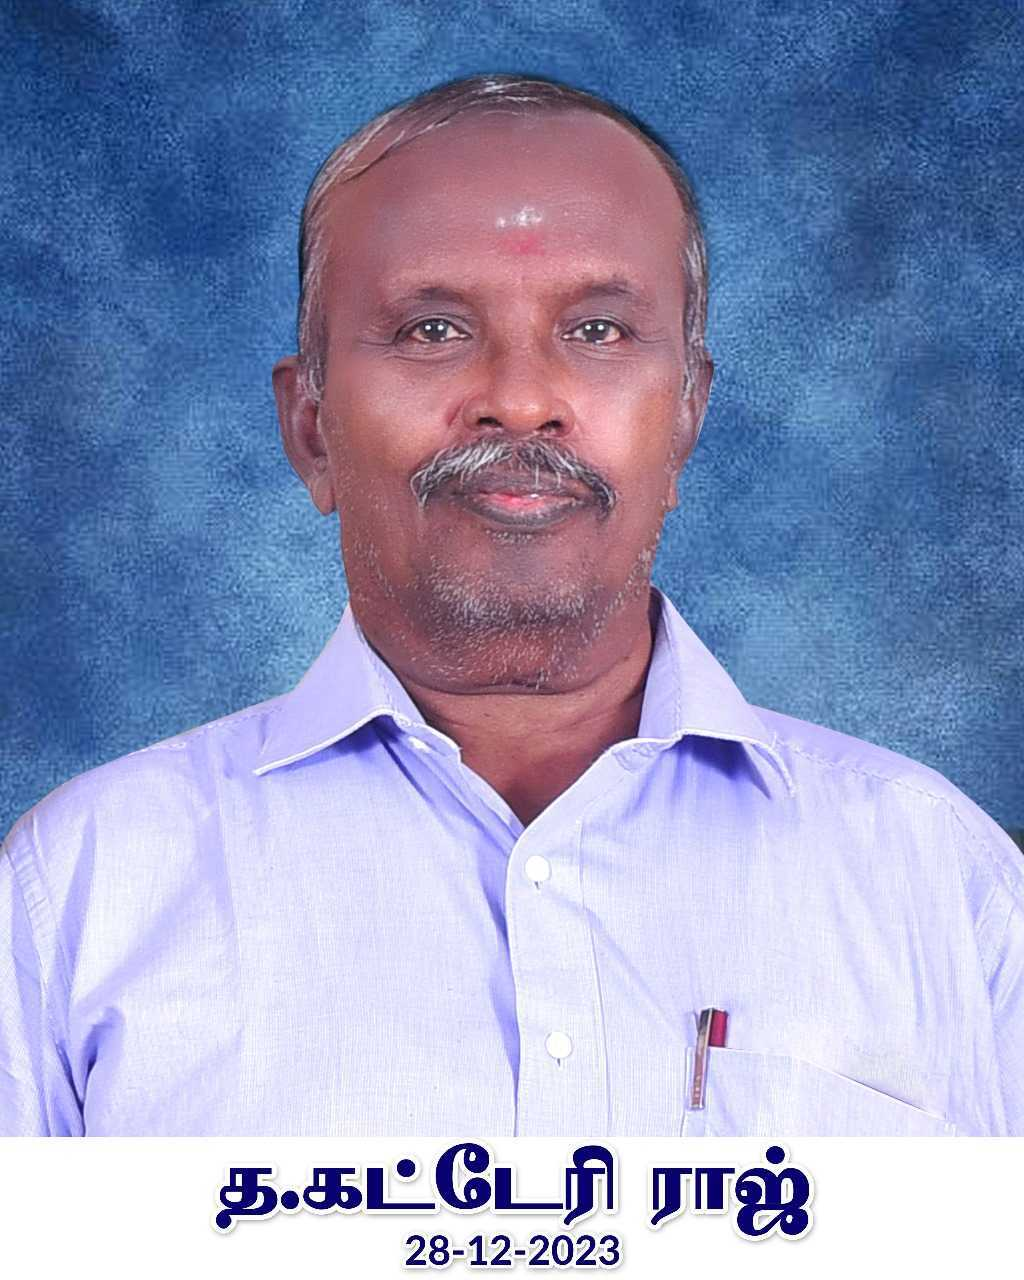
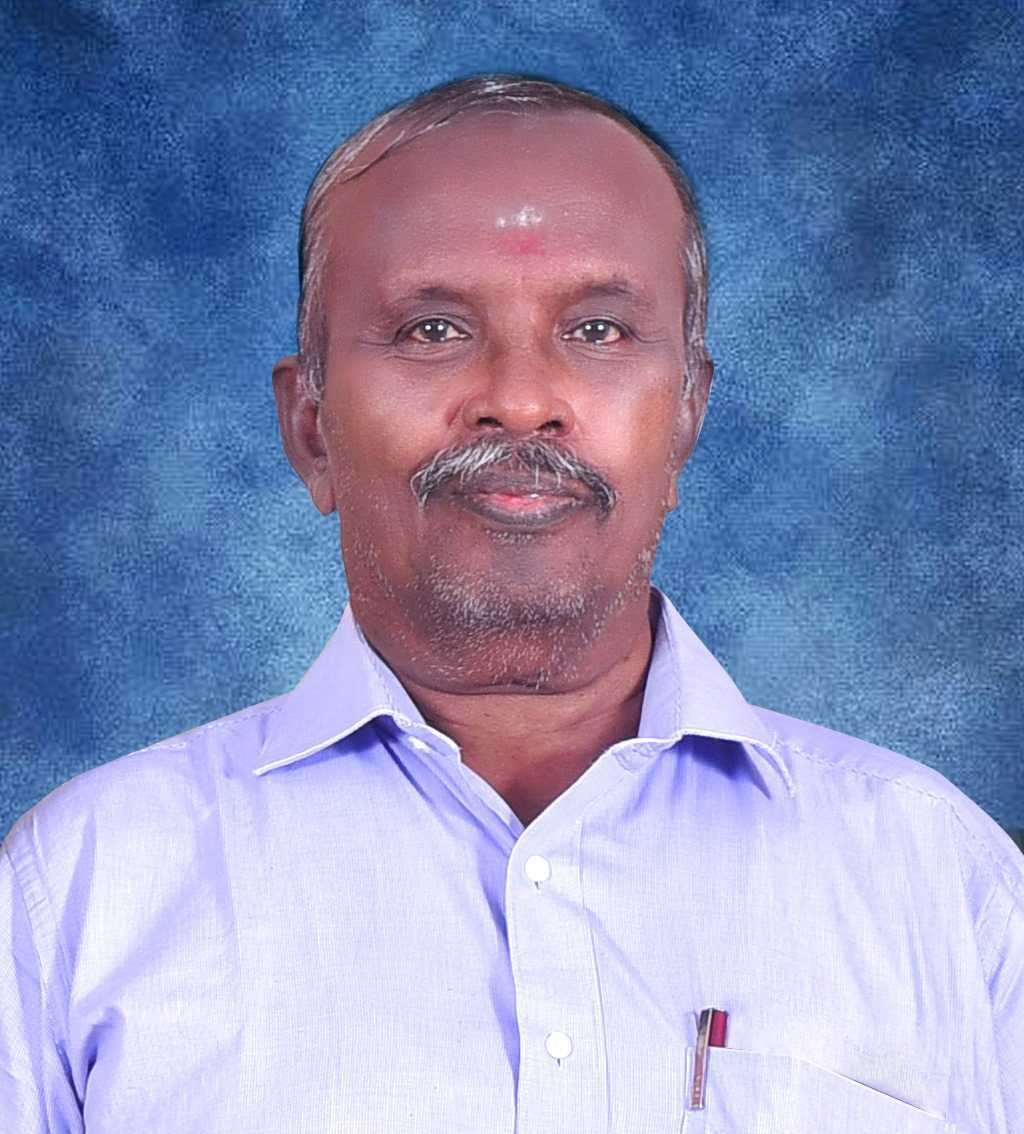
fix: correct spelling of "macaroons" to "macroons" across multiple files

diff --git a/src/app/thoothukudi-macroons/page.tsx b/src/app/thoothukudi-macroons/page.tsx
@@ -13,18 +13,18 @@ import { FAQAccordion } from "@/components/shared/FAQAccordion";
 import { AddToCartButton } from "@/components/product/AddToCartButton";
 
 export const metadata: Metadata = pageMetadata({
-  title: "Thoothukudi Macaroons | Buy Macaroons Online | Ganesh Bakery",
+  title: "Thoothukudi Macroons | Buy Macroons Online | Ganesh Bakery",
   description:
-    "Thoothukudi macaroons (also spelled macroons, from Tuticorin) — baked by Ganesh Bakery, Shop No. 532 since 1964. Order online and have them shipped to you.",
+    "Thoothukudi macroons (from Tuticorin) — baked by Ganesh Bakery, Shop No. 532 since 1964. Order online and have them shipped to you.",
   path: "/thoothukudi-macroons",
 });
 
 const relevantFaq = faqItems.filter((item) =>
   [
-    "What are Thoothukudi macaroons?",
-    "Can I buy macaroons online?",
+    "What are Thoothukudi macroons?",
+    "Can I buy macroons online?",
     "What sizes are available?",
-    "How should macaroons and biscuits be stored?",
+    "How should macroons and biscuits be stored?",
     "What is the shelf life?",
     "Do you deliver bakery products?",
   ].includes(item.question)
@@ -37,11 +37,11 @@ export default async function ThoothukudiMacroonsPage() {
   return (
     <>
       <JsonLd data={faqSchema(relevantFaq)} />
-      <Breadcrumbs items={[{ name: "Thoothukudi Macaroons", path: "/thoothukudi-macroons" }]} />
+      <Breadcrumbs items={[{ name: "Thoothukudi Macroons", path: "/thoothukudi-macroons" }]} />
 
       <div className="mx-auto max-w-4xl px-4 py-10 sm:px-6 lg:px-8">
         <h1 className="font-display text-4xl font-semibold text-[color:var(--text-primary)] sm:text-5xl text-balance">
-          Thoothukudi Macaroons
+          Thoothukudi Macroons
         </h1>
         <p className="mt-4 text-lg text-[color:var(--text-secondary)] text-pretty">
           A bakery specialty of Thoothukudi — also known as Tuticorin — baked by {siteConfig.brandName},{" "}
@@ -50,14 +50,14 @@ export default async function ThoothukudiMacroonsPage() {
 
         {image && (
           <div className="glass-premium relative mt-8 aspect-4/5 max-w-sm overflow-hidden rounded-[var(--radius-card)]">
-            <Image src={image.url} alt={image.alt || "Thoothukudi macaroons from Ganesh Bakery"} fill className="object-cover object-right" />
+            <Image src={image.url} alt={image.alt || "Thoothukudi macroons from Ganesh Bakery"} fill className="object-cover object-right" />
           </div>
         )}
 
         <section className="mt-10">
-          <h2 className="font-display text-2xl font-semibold text-[color:var(--text-primary)]">What Are Thoothukudi Macaroons?</h2>
+          <h2 className="font-display text-2xl font-semibold text-[color:var(--text-primary)]">What Are Thoothukudi Macroons?</h2>
           <p className="mt-3 text-[color:var(--text-secondary)] text-pretty">
-            Thoothukudi macaroons — sometimes spelled &ldquo;macroons&rdquo; locally — are a baked confection
+            Thoothukudi macroons are a baked confection
             associated with Thoothukudi (Tuticorin) on the Tamil Nadu coast. They&apos;re distinct from French
             macarons, and have become closely tied to the city&apos;s identity as a bakery town.
           </p>
@@ -66,7 +66,7 @@ export default async function ThoothukudiMacroonsPage() {
         <section className="mt-10">
           <h2 className="font-display text-2xl font-semibold text-[color:var(--text-primary)]">Why Ours Are Different</h2>
           <p className="mt-3 text-[color:var(--text-secondary)] text-pretty">
-            At {siteConfig.brandName}, {siteConfig.shopBranch}, our macaroons follow the same approach we&apos;ve
+            At {siteConfig.brandName}, {siteConfig.shopBranch}, our macroons follow the same approach we&apos;ve
             baked to since {siteConfig.since} — part of the wider {siteConfig.brandName} family heritage in{" "}
             {siteConfig.locality}.
           </p>
@@ -92,7 +92,7 @@ export default async function ThoothukudiMacroonsPage() {
               </Link>
             </div>
           ) : (
-            <p className="mt-3 text-[color:var(--text-muted)]">[CLIENT TO PROVIDE: current macaroon availability]</p>
+            <p className="mt-3 text-[color:var(--text-muted)]">[CLIENT TO PROVIDE: current macroons availability]</p>
           )}
         </section>
 

diff --git a/src/app/about/page.tsx b/src/app/about/page.tsx
@@ -1,14 +1,14 @@
+import { Breadcrumbs } from "@/components/shared/Breadcrumbs";
+import { pageMetadata } from "@/lib/seo/metadata";
+import { siteConfig } from "@/lib/site-config";
 import type { Metadata } from "next";
 import Image from "next/image";
 import Link from "next/link";
-import { pageMetadata } from "@/lib/seo/metadata";
-import { siteConfig } from "@/lib/site-config";
-import { Breadcrumbs } from "@/components/shared/Breadcrumbs";
 
 export const metadata: Metadata = pageMetadata({
   title: "About Ganesh Bakery | Shop 532, Thoothukudi",
   description:
-    "Ganesh Bakery, Shop No. 532 is part of the Ganesh Bakery family heritage in Thoothukudi (Tuticorin), baking traditional biscuits, rusk and macaroons since 1964.",
+    "Ganesh Bakery, Shop No. 532 is part of the Ganesh Bakery family heritage in Thoothukudi (Tuticorin), baking traditional biscuits, rusk and macroons since 1964.",
   path: "/about",
 });
 
@@ -58,13 +58,13 @@ export default function AboutPage() {
               <div className="glass-subtle glow-gold relative mx-auto aspect-[3/4] w-full overflow-hidden rounded-2xl">
                 <Image
                   src="/brand/founder-dharmalingam-nadar.jpg"
-                  alt={`Sri K. Dharmalingam Nadar — founder of ${siteConfig.brandName}, ${siteConfig.since}`}
+                  alt={`Shri K. Dharmalingam — founder of ${siteConfig.brandName}, ${siteConfig.since}`}
                   fill
                   className="object-cover"
                 />
               </div>
               <figcaption className="mt-2">
-                <p className="text-sm font-medium text-[color:var(--text-primary)]">Sri K. Dharmalingam Nadar</p>
+                <p className="text-sm font-medium text-[color:var(--text-primary)]">Shri K. Dharmalingam Nadar</p>
                 <p className="label-tracked mt-0.5 text-[10px] text-[color:var(--text-muted)]">Founder, {siteConfig.since}</p>
               </figcaption>
             </figure>
@@ -72,21 +72,21 @@ export default function AboutPage() {
               <div className="glass-subtle glow-gold relative mx-auto aspect-[3/4] w-full overflow-hidden rounded-2xl">
                 <Image
                   src="/brand/father-katteri-raj.jpg"
-                  alt={`T. Katteri Raj — carried the ${siteConfig.brandName} tradition forward`}
+                  alt={`Shri T. Katteri Raj — carried the ${siteConfig.brandName} tradition forward`}
                   fill
                   className="object-cover"
                 />
               </div>
               <figcaption className="mt-2">
-                <p className="text-sm font-medium text-[color:var(--text-primary)]">T. Katteri Raj</p>
+                <p className="text-sm font-medium text-[color:var(--text-primary)]">Shri T. Katteri Raj</p>
                 <p className="label-tracked mt-0.5 text-[10px] text-[color:var(--text-muted)]">Carried the tradition forward</p>
               </figcaption>
             </figure>
           </div>
 
           <p className="glass-subtle mt-6 rounded-2xl p-4 text-sm text-[color:var(--text-secondary)]">
-            It began with our grandfather, Sri K. Dharmalingam Nadar, who founded the bakery in {siteConfig.since}.
-            Our father, T. Katteri Raj, took over after him and carried it forward, keeping the same recipes and
+            It began with our grandfather, Shri K. Dharmalingam Nadar, who founded the bakery in {siteConfig.since}.
+            Our father, Shri T. Katteri Raj, took over after him and carried it forward, keeping the same recipes and
             the same standards. Today, we continue that legacy at {siteConfig.shopBranch} — three generations of
             the same family, still baking the way it started.
           </p>

diff --git a/src/lib/content/faq.ts b/src/lib/content/faq.ts
@@ -8,8 +8,8 @@ import { formatAddress, siteConfig } from "@/lib/site-config";
  */
 export const faqItems: FAQItem[] = [
   {
-    question: "What are Thoothukudi macaroons?",
-    answer: `Thoothukudi macaroons — also spelled "macroons," and Thoothukudi is also known as Tuticorin — are a baked bakery specialty associated with the region. At ${siteConfig.brandName}, ${siteConfig.shopBranch}, we've baked ours following the same approach since ${siteConfig.since}.`,
+    question: "What are Thoothukudi macroons?",
+    answer: `Thoothukudi macroons are a baked bakery specialty associated with the region. At ${siteConfig.brandName}, ${siteConfig.shopBranch}, we've baked ours following the same approach since ${siteConfig.since}.`,
   },
   {
     question: `Where is ${siteConfig.brandName} Shop No. 532 located?`,
@@ -21,9 +21,9 @@ export const faqItems: FAQItem[] = [
       "Yes, we offer delivery on our bakery products. [CLIENT TO PROVIDE: delivery areas, charges, and estimated timelines]",
   },
   {
-    question: "Can I buy macaroons online?",
+    question: "Can I buy macroons online?",
     answer:
-      "Yes — our macaroons and other bakery products can be ordered directly through this website via the Shop page.",
+      "Yes — our macroons and other bakery products can be ordered directly through this website via the Shop page.",
   },
   {
     question: "What sizes are available?",
@@ -31,7 +31,7 @@ export const faqItems: FAQItem[] = [
       "Our products are currently available in 1kg packs. [CLIENT TO PROVIDE: additional size/weight options if available]",
   },
   {
-    question: "How should macaroons and biscuits be stored?",
+    question: "How should macroons and biscuits be stored?",
     answer: "[CLIENT TO PROVIDE: recommended storage instructions]",
   },
   {

diff --git a/src/app/bakery-in-thoothukudi/page.tsx b/src/app/bakery-in-thoothukudi/page.tsx
@@ -11,7 +11,7 @@ import { JsonLd } from "@/components/seo/JsonLd";
 export const metadata: Metadata = pageMetadata({
   title: "Bakery in Thoothukudi | Ganesh Bakery Shop 532",
   description:
-    "Looking for a bakery in Thoothukudi (Tuticorin)? Ganesh Bakery, Shop No. 532 bakes traditional biscuits, rusk and macaroons since 1964 — visit us or order online.",
+    "Looking for a bakery in Thoothukudi (Tuticorin)? Ganesh Bakery, Shop No. 532 bakes traditional biscuits, rusk and macroons since 1964 — visit us or order online.",
   path: "/bakery-in-thoothukudi",
 });
 
@@ -29,7 +29,7 @@ export default async function BakeryInThoothukudiPage() {
         </h1>
         <p className="mt-4 text-lg text-[color:var(--text-secondary)] text-pretty">
           {siteConfig.brandName}, {siteConfig.shopBranch} has been baking in {siteConfig.locality} (Tuticorin)
-          since {siteConfig.since} — traditional biscuits, rusk, nutbar and macaroons, made the way they always
+          since {siteConfig.since} — traditional biscuits, rusk, nutbar and macroons, made the way they always
           have been.
         </p>
 
@@ -91,7 +91,7 @@ export default async function BakeryInThoothukudiPage() {
           </ul>
           <p className="mt-4">
             <Link href="/thoothukudi-macroons" className="font-semibold text-[color:var(--gold-400)] hover:text-[color:var(--gold-300)]">
-              Read more about our Thoothukudi macaroons →
+              Read more about our Thoothukudi macroons →
             </Link>
           </p>
         </section>

diff --git a/src/app/page.tsx b/src/app/page.tsx
@@ -12,9 +12,9 @@ import { localBusinessSchema } from "@/lib/seo/schema";
 import { pageMetadata } from "@/lib/seo/metadata";
 
 export const metadata: Metadata = pageMetadata({
-  title: "Ganesh Bakery | Thoothukudi Macaroon & Traditional Bakery",
+  title: "Ganesh Bakery | Thoothukudi Macroons & Traditional Bakery",
   description:
-    "Ganesh Bakery, Thoothukudi — home of the Thoothukudi Macaroon. Shop authentic macaroons, butter biscuits, ghee biscuits, tea rusk and other traditional bakery specialities from Shop No. 532, freshly prepared since 1964.",
+    "Ganesh Bakery, Thoothukudi — home of the Thoothukudi Macroons. Shop authentic macroons, butter biscuits, ghee biscuits, tea rusk and other traditional bakery specialities from Shop No. 532, freshly prepared since 1964.",
   path: "/",
 });
 
@@ -28,8 +28,8 @@ export default async function HomePage() {
       <JsonLd data={localBusinessSchema(products)} />
       <Hero
         imageUrl={heroProduct?.images[0]?.url ?? null}
-        imageAlt={isMacaroon ? "Thoothukudi Macaroons from Ganesh Bakery" : (heroProduct?.name ?? "Ganesh Bakery")}
-        imageCaption={isMacaroon ? "Thoothukudi Macaroons" : undefined}
+        imageAlt={isMacaroon ? "Thoothukudi Macroons from Ganesh Bakery" : (heroProduct?.name ?? "Ganesh Bakery")}
+        imageCaption={isMacaroon ? "Thoothukudi Macroons" : undefined}
       />
       <TrustStrip />
       <SignatureProducts products={products} />

diff --git a/src/app/contact/page.tsx b/src/app/contact/page.tsx
@@ -25,6 +25,7 @@ export default function ContactPage() {
         </p>
 
         <div className="mt-10 grid gap-10 lg:grid-cols-2">
+          <div className="space-y-6">
           <div className="glass-card space-y-6 rounded-[var(--radius-card)] p-6">
             <ContactRow icon={MapPin} label="Address">
               <p className="text-[color:var(--text-primary)]">{formatAddress()}</p>
@@ -69,6 +70,22 @@ export default function ContactPage() {
             <ContactRow icon={FileText} label="GSTIN">
               <p className="text-[color:var(--text-primary)]">{siteConfig.gstNumber}</p>
             </ContactRow>
+          </div>
+
+          <div className="glass-subtle space-y-5 rounded-[var(--radius-card)] p-6">
+            <p className="label-tracked text-[color:var(--text-muted)]">Also Find Us At</p>
+            <ContactRow icon={MapPin} label="Second Location">
+              <p className="text-[color:var(--text-primary)]">{siteConfig.secondaryLocation.address}</p>
+            </ContactRow>
+            <ContactRow icon={Phone} label="Phone">
+              <a
+                href={`tel:${siteConfig.secondaryLocation.phoneTel}`}
+                className="text-[color:var(--text-primary)] hover:text-[color:var(--gold-400)]"
+              >
+                {siteConfig.secondaryLocation.phone}
+              </a>
+            </ContactRow>
+          </div>
           </div>
 
           <ContactForm />

diff --git a/src/components/layout/SearchOverlay.tsx b/src/components/layout/SearchOverlay.tsx
@@ -11,11 +11,11 @@ const MAX_RECENT = 5;
 const CATEGORIES = [
   { label: "Biscuits", slug: "biscuits" },
   { label: "Rusks", slug: "rusks" },
-  { label: "Macaroons", slug: "macaroons" },
+  { label: "Macroons", slug: "macaroons" },
   { label: "Bakery Snacks", slug: "bakery-snacks" },
 ];
 
-const POPULAR = ["Thoothukudi Macaroons", "Butter Biscuit", "Tea Rusk", "Nutbar"];
+const POPULAR = ["Thoothukudi Macroons", "Butter Biscuit", "Tea Rusk", "Nutbar"];
 
 export function SearchOverlay({ open, onClose }: { open: boolean; onClose: () => void }) {
   const [mounted, setMounted] = useState(false);
@@ -103,7 +103,7 @@ export function SearchOverlay({ open, onClose }: { open: boolean; onClose: () =>
             type="search"
             value={query}
             onChange={(e) => setQuery(e.target.value)}
-            placeholder="Search macaroons, biscuits, rusk…"
+            placeholder="Search macroons, biscuits, rusk…"
             className="w-full bg-transparent text-[15px] text-[color:var(--text-primary)] placeholder:text-[color:var(--text-muted)] focus:outline-none"
           />
           <button

diff --git a/src/components/home/Hero.tsx b/src/components/home/Hero.tsx
@@ -96,10 +96,10 @@ export function Hero({
           <h1 className="font-display text-[clamp(1.875rem,4vw+1rem,2.25rem)] font-semibold leading-[1.15] text-[color:var(--text-primary)] sm:text-5xl lg:text-6xl lg:leading-[1.08] text-balance">
             {siteConfig.brandName}
             <br />
-            <span className="font-display italic text-gradient-gold">Home of the Thoothukudi Macaroon</span>
+            <span className="font-display italic text-gradient-gold">Home of the Thoothukudi Macroons</span>
           </h1>
           <p className="max-w-lg text-base text-[color:var(--text-primary)] text-pretty sm:text-lg lg:text-[color:var(--text-secondary)]">
-            Discover authentic Thoothukudi Macaroons and traditional bakery specialities from{" "}
+            Discover authentic Thoothukudi Macroons and traditional bakery specialities from{" "}
             {siteConfig.brandName}, {siteConfig.shopBranch}, {siteConfig.locality} — freshly prepared with the
             taste and tradition we&apos;ve preserved since {siteConfig.since}.
           </p>

diff --git a/src/app/shop/page.tsx b/src/app/shop/page.tsx
@@ -16,7 +16,7 @@ export async function generateMetadata({
   return pageMetadata({
     title: "Ganesh Bakery Thoothukudi | Buy Bakery Products Online",
     description:
-      "Shop traditional bakery products from Ganesh Bakery, Shop No. 532, Thoothukudi — biscuits, rusk, nutbar and macaroons, freshly baked and delivered.",
+      "Shop traditional bakery products from Ganesh Bakery, Shop No. 532, Thoothukudi — biscuits, rusk, nutbar and macroons, freshly baked and delivered.",
     path: "/shop",
     noindex: Boolean(q),
   });
@@ -43,7 +43,7 @@ export default async function ShopPage({
           {q ? `Search results for “${q}”` : "Shop Bakery Products"}
         </h1>
         <p className="mt-3 max-w-2xl text-[color:var(--text-secondary)]">
-          Traditional biscuits, rusk, nutbar and macaroons from Ganesh Bakery, Shop No. 532, Thoothukudi —
+          Traditional biscuits, rusk, nutbar and macroons from Ganesh Bakery, Shop No. 532, Thoothukudi —
           baked in small batches and shipped across India.
         </p>
 

diff --git a/src/app/layout.tsx b/src/app/layout.tsx
@@ -34,11 +34,11 @@ export const viewport: Viewport = {
 export const metadata: Metadata = {
   metadataBase: new URL(siteConfig.siteUrl),
   title: {
-    default: "Ganesh Bakery Thoothukudi | Traditional Bakery & Macaroons",
+    default: "Ganesh Bakery Thoothukudi | Traditional Bakery & Macroons",
     template: `%s | ${siteConfig.brandName}`,
   },
   description:
-    "Ganesh Bakery, Shop No. 532, Thoothukudi (Tuticorin) — traditional bakery specialities since 1964. Butter biscuits, ghee biscuits, tea rusk, nutbar and macaroons, freshly baked and available to order online.",
+    "Ganesh Bakery, Shop No. 532, Thoothukudi (Tuticorin) — traditional bakery specialities since 1964. Butter biscuits, ghee biscuits, tea rusk, nutbar and macroons, freshly baked and available to order online.",
   icons: {
     icon: [
       { url: "/favicon-16x16.png", sizes: "16x16", type: "image/png" },

diff --git a/src/components/home/HeritageStory.tsx b/src/components/home/HeritageStory.tsx
@@ -31,8 +31,8 @@ export function HeritageStory() {
               handed down, ingredients chosen with care, and every batch baked with the intention of being shared.
             </p>
             <p className="glass-subtle mt-5 rounded-2xl p-4 text-sm text-[color:var(--text-secondary)]">
-              It began with our grandfather, Sri K. Dharmalingam Nadar, who founded the bakery in{" "}
-              {siteConfig.since}. Our father, T. Katteri Raj, carried it forward after him, and today we continue
+              It began with our grandfather, Shri K. Dharmalingam Nadar, who founded the bakery in{" "}
+              {siteConfig.since}. Our father, Shri T. Katteri Raj, carried it forward after him, and today we continue
               that same family legacy at {siteConfig.shopBranch} — three generations now, still baking the way it
               started.
             </p>

diff --git a/src/lib/seo/schema.ts b/src/lib/seo/schema.ts
@@ -89,7 +89,7 @@ export function localBusinessSchema(products: Product[] = []) {
       : {}),
     ...(priceRange && { priceRange }),
     servesCuisine: "Bakery",
-    description: `${siteConfig.brandName}, ${siteConfig.shopBranch} — home of the Thoothukudi Macaroon and a traditional bakery in ${siteConfig.locality} (Tuticorin), baking biscuits, rusk and macaroons since ${siteConfig.since}.`,
+    description: `${siteConfig.brandName}, ${siteConfig.shopBranch} — home of the Thoothukudi Macroons and a traditional bakery in ${siteConfig.locality} (Tuticorin), baking biscuits, rusk and macroons since ${siteConfig.since}.`,
   };
 }
 
